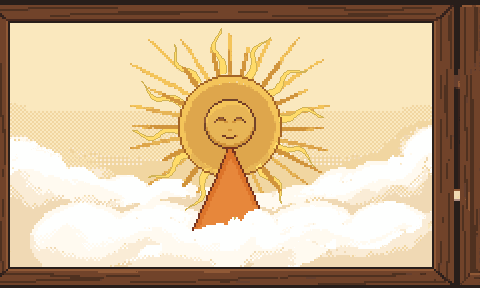
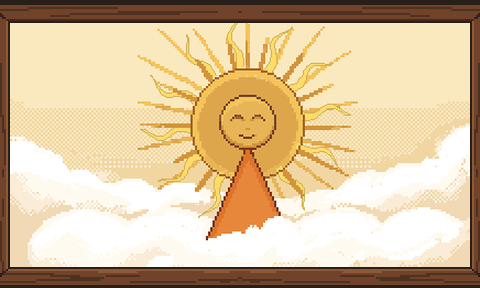
公開版を更新(ぱーでれの紙芝居、版 437)
Claude-Session: https://claude.ai/code/session_01ERearLPnmT1AXZfmnMyS85

diff --git a/field/rpg.js b/field/rpg.js
@@ -153,9 +153,10 @@ const ASSET_V = (() => {
           freezeUntil = clock + sec;
         },
         // 一枚絵を何枚か、ボタンを待たずに、ゆっくり重ねて移り変わらせる(最後の絵のあとで onDone)
-        // opts.slide: 重ねずに、今の絵を右へすべらせて抜き、下の次の絵を見せる(紙芝居 D428)
+        // opts.slide: 重ねずに、今の絵を横へすべらせて抜き、下の次の絵を見せる(紙芝居 D428)
+        // opts.stage: { frame: 舞台の絵, win: [x, y, w, h] }。舞台(木枠)は動かさず、窓の中の絵だけを観客から見て左へ抜く(D475)
         showSeq(keys, holdSec, onDone, opts) {
-          cutscene = { img: keys[0], seq: keys, hold: holdSec, t0: clock, onDone: onDone || null, full: true, slide: !!(opts && opts.slide), slideSec: (opts && opts.slideSec) || 0.6 };
+          cutscene = { img: keys[0], seq: keys, hold: holdSec, t0: clock, onDone: onDone || null, full: true, slide: !!(opts && opts.slide), slideSec: (opts && opts.slideSec) || 0.6, stage: (opts && opts.stage) || null };
         },
         // 見せ場のカメラワーク: keys は時刻(秒)ごとの中心 x, y と寄り z(1 がふつう、小さいほど引き)。
         // 最後の点のあと 1.2 秒でふつうのカメラに戻る。そのあいだ、きーは動かない。A で飛ばせる
@@ -1404,13 +1405,15 @@ const ASSET_V = (() => {
       ctx.fillRect(0, 0, VW, VH);
       const i = Math.floor(el / cutscene.hold);
       const into = el - i * cutscene.hold;
+      // 舞台(紙芝居の木枠)があるときは、木枠が切れないように画面の中におさめる。ふだんは画面いっぱい
+      const stageFit = (im) => (cutscene.stage ? Math.min : Math.max)(VW / im.width, VH / im.height);
       const put = (k, alpha, dx) => {
         // 動く一枚絵: world.anims に名前があれば、そのコマを時間で送る(例: B の最後の旗 D273)
         const an = world.anims && world.anims[k];
         if (an) k = an.frames[Math.floor(clock * an.fps) % an.frames.length];
         const im = img(k);
         if (!im) return;
-        const fit = Math.max(VW / im.width, VH / im.height);
+        const fit = stageFit(im);
         const c = cutBuf(im, Math.max(1, Math.ceil(fit)));
         const w = Math.round(im.width * fit);
         const h = Math.round(im.height * fit);
@@ -1422,13 +1425,34 @@ const ASSET_V = (() => {
         ctx.globalAlpha = 1;
       };
       if (cutscene.slide) {
-        // 紙芝居: 終わりの slideSec 秒(ふつう 0.6 秒)で、今の絵を右へ抜く(はじめゆっくり、だんだん速く)。下には次の絵
+        // 紙芝居: 終わりの slideSec 秒(ふつう 0.6 秒)で、今の絵を抜く(はじめゆっくり、だんだん速く)。下には次の絵
+        // stage があれば窓の中の絵だけを左へ、なければ一枚絵ごと右へ
         const left = cutscene.hold - into;
         const sl = Math.min(cutscene.slideSec, cutscene.hold * 0.4);
         if (left < sl && i + 1 < n) {
           const u = 1 - left / sl;
           put(cutscene.seq[i + 1], 1);
-          put(cutscene.seq[i], 1, u * u * VW);
+          const st = cutscene.stage;
+          const im = st && img(cutscene.seq[i]);
+          if (im) {
+            // 舞台の窓の中だけ、今の絵を左へ抜く。木枠は次の絵のまま動かない
+            const fit = stageFit(im);
+            const ox = (VW - im.width * fit) / 2, oy = (VH - im.height * fit) / 2;
+            const [wx, wy, ww, wh] = st.win;
+            const c = cutBuf(im, Math.max(1, Math.ceil(fit)));
+            const k = c.width / im.width;
+            const X = ox + wx * fit, Y = oy + wy * fit, Wd = ww * fit, Hd = wh * fit;
+            ctx.save();
+            ctx.beginPath();
+            ctx.rect(Math.round(X), Math.round(Y), Math.round(Wd), Math.round(Hd));
+            ctx.clip();
+            ctx.imageSmoothingEnabled = true;
+            ctx.imageSmoothingQuality = "high";
+            ctx.drawImage(c, wx * k, wy * k, ww * k, wh * k, Math.round(X - u * u * Wd), Math.round(Y), Math.round(Wd), Math.round(Hd));
+            ctx.restore();
+            ctx.imageSmoothingEnabled = false;
+            put(st.frame, 1);
+          } else put(cutscene.seq[i], 1, u * u * VW);
         } else {
           put(cutscene.seq[i], 1);
           if (left < sl) {

diff --git a/field/index.html b/field/index.html
@@ -14,8 +14,8 @@
   <link rel="apple-touch-icon" href="./apple-touch-icon.png">
   <meta name="apple-mobile-web-app-title" content="ぼぎだぢ">
   <meta http-equiv="Cache-Control" content="no-cache">
-  <script src="./fresh.js?v=436"></script>
-  <link rel="stylesheet" href="./style.css?v=436">
+  <script src="./fresh.js?v=437"></script>
+  <link rel="stylesheet" href="./style.css?v=437">
 </head>
 <body>
 
@@ -53,33 +53,33 @@
   <button type="button" id="actionBtnT" class="action-btn action-btn-t" aria-label="時計">TIME</button>
 
 
-  <script src="./audio.js?v=436"></script>
-  <script src="./rpg.js?v=436"></script>
-  <script src="./worlds/common.js?v=436"></script>
-  <script src="./worlds/lake.js?v=436"></script>
-  <script src="./worlds/void.js?v=436"></script>
-  <script src="./worlds/haihei.js?v=436"></script>
-  <script src="./worlds/kasumi.js?v=436"></script>
-  <script src="./worlds/banana.js?v=436"></script>
-  <script src="./worlds/suzuki.js?v=436"></script>
-  <script src="./worlds/takarabune.js?v=436"></script>
-  <script src="./worlds/noroi.js?v=436"></script>
-  <script src="./worlds/noroi_diner.js?v=436"></script>
-  <script src="./worlds/noroi_strip.js?v=436"></script>
-  <script src="./worlds/noroi_race.js?v=436"></script>
-  <script src="./worlds/pinball.js?v=436"></script>
-  <script src="./worlds/padre.js?v=436"></script>
-  <script src="./worlds/kinsei.js?v=436"></script>
-  <script src="./worlds/bomber.js?v=436"></script>
-  <script src="./worlds/finale.js?v=436"></script>
-  <script src="./worlds/index.js?v=436"></script>
-  <script src="./app/layout.js?v=436"></script>
-  <script src="./app/dialog.js?v=436"></script>
-  <script src="./app/game.js?v=436"></script>
-  <script src="./app/status.js?v=436"></script>
-  <script src="./app/title.js?v=436"></script>
-  <script src="./app/watch.js?v=436"></script>
-  <script src="./app/input.js?v=436"></script>
-  <script src="./app/loop.js?v=436"></script>
+  <script src="./audio.js?v=437"></script>
+  <script src="./rpg.js?v=437"></script>
+  <script src="./worlds/common.js?v=437"></script>
+  <script src="./worlds/lake.js?v=437"></script>
+  <script src="./worlds/void.js?v=437"></script>
+  <script src="./worlds/haihei.js?v=437"></script>
+  <script src="./worlds/kasumi.js?v=437"></script>
+  <script src="./worlds/banana.js?v=437"></script>
+  <script src="./worlds/suzuki.js?v=437"></script>
+  <script src="./worlds/takarabune.js?v=437"></script>
+  <script src="./worlds/noroi.js?v=437"></script>
+  <script src="./worlds/noroi_diner.js?v=437"></script>
+  <script src="./worlds/noroi_strip.js?v=437"></script>
+  <script src="./worlds/noroi_race.js?v=437"></script>
+  <script src="./worlds/pinball.js?v=437"></script>
+  <script src="./worlds/padre.js?v=437"></script>
+  <script src="./worlds/kinsei.js?v=437"></script>
+  <script src="./worlds/bomber.js?v=437"></script>
+  <script src="./worlds/finale.js?v=437"></script>
+  <script src="./worlds/index.js?v=437"></script>
+  <script src="./app/layout.js?v=437"></script>
+  <script src="./app/dialog.js?v=437"></script>
+  <script src="./app/game.js?v=437"></script>
+  <script src="./app/status.js?v=437"></script>
+  <script src="./app/title.js?v=437"></script>
+  <script src="./app/watch.js?v=437"></script>
+  <script src="./app/input.js?v=437"></script>
+  <script src="./app/loop.js?v=437"></script>
 </body>
 </html>

diff --git a/field/worlds/index.js b/field/worlds/index.js
@@ -299,7 +299,7 @@ window.BOGI_WORLDS = {
     name: "ぱーでれとだいにち",
     assetBase: "./assets/worlds/padre/",
     images: Object.fromEntries(
-      ["bg_michi", "bg_akichi", "padre", "padre_open", "padre_fig", "padre_fig_open", "v_padre", "b_kobosi", "b_denden", "b_hato", "pb_1", "pb_2", "pb_3", "pb_4", "pb_5", "b_daruma", "b_tora", "b_inu", "pb_6", "pb_7", "pb_8", "pb_9", "pb_10", "i_ame", "kami1", "kami2", "kami3", "kami4", "t_zori", "fg_akichi_pole", "fg_akichi_pipes", "fg_michi_pole1", "fg_michi_pole2"]
+      ["bg_michi", "bg_akichi", "padre", "padre_open", "padre_fig", "padre_fig_open", "v_padre", "b_kobosi", "b_denden", "b_hato", "pb_1", "pb_2", "pb_3", "pb_4", "pb_5", "b_daruma", "b_tora", "b_inu", "pb_6", "pb_7", "pb_8", "pb_9", "pb_10", "i_ame", "kami1", "kami2", "kami3", "kami4", "kami_stage", "t_zori", "fg_akichi_pole", "fg_akichi_pipes", "fg_michi_pole1", "fg_michi_pole2"]
         .map((k) => [k, `${k}.png`])
         .concat([
           ["ki", "./assets/worlds/lake/ki_walk.png"],

diff --git a/field/fresh.js b/field/fresh.js
@@ -1,7 +1,7 @@
 // 古い版が残らないように(ホーム画面に置いたとき、ページそのものが手元に残る)。index.html の中から、このファイルに出した(D301。ページの中に直接書いた script を禁止するため)
 // version.json(毎回取りにいく)の版がこのページとちがえば、URL を変えて読みなおす。版を上げるときは、下の数と version.json と ?v= をそろえる
 (function () {
-  var V = "436";
+  var V = "437";
   var key = "bogidachi.reloadedFor";
   function check(onlyIfSafe) {
     fetch("./version.json?t=" + Date.now(), { cache: "no-store" })

diff --git a/field/worlds/padre.js b/field/worlds/padre.js
@@ -85,7 +85,7 @@ const pStartShow = (api) => {
       api.cut("akichi", "seat");
       pS.phase = "gather";
       pS.t0 = pNow();
-    }, { slide: true, slideSec: 1.4 }) // もっとゆっくり(D439): 1 枚 5 秒、抜くのに 1.4 秒
+    }, { slide: true, slideSec: 1.4, stage: { frame: "kami_stage", win: [10, 23, 460, 244] } }) // もっとゆっくり(D439): 1 枚 5 秒、抜くのに 1.4 秒。木枠は止めて、絵だけを左へ抜く(D475、win は docs/assets/padre/kami_stage.py の WIN)
   );
 };
 const pImg = (key, x, y, extra) =>
